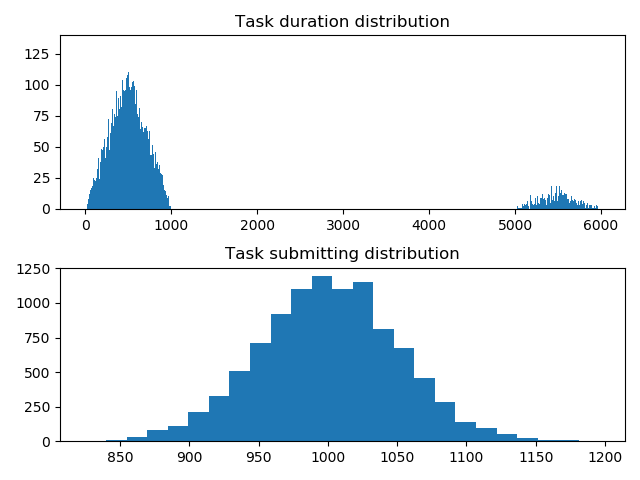
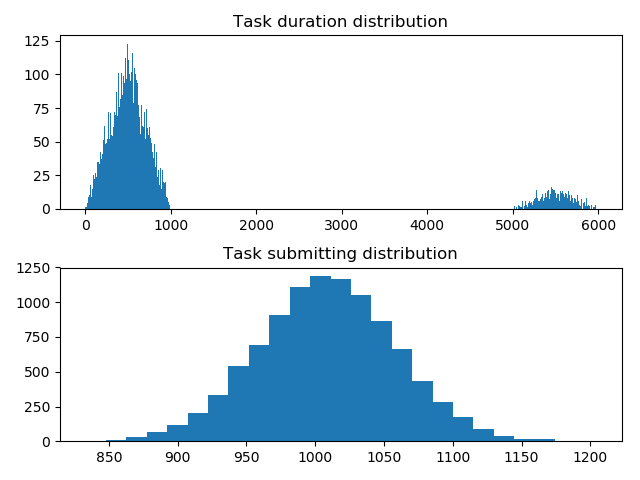
generator refactor and task ready time in float

diff --git a/generator.py b/generator.py
@@ -1,6 +1,5 @@
+from typing import Callable, Tuple
 import random
-from typing import Callable
-
 import numpy as np
 import matplotlib.pyplot as plt
 
@@ -9,44 +8,56 @@ from task import Task
 
 class Generator:
 
-    def __init__(self, N: int, low1: int, high1: int, low2: int, high2: int,
-                 p: float, length_function: Callable[['Task', int], int], std_function=np.sqrt, save_plots=False):
-        self.n = N
-        self.low1 = low1
-        self.high1 = high1
-        self.low2 = low2
-        self.high2 = high2
-        self.p = p
+    def __init__(self, n: int,
+                 min_max_resources: Tuple[int, int],
+                 # bimodal distribution of base length of task
+                 min_max_small: Tuple[int, int], min_max_big: Tuple[int, int], p_of_big: float,
+                 length_function: Callable[['Task', int], float],
+                 std_function=np.sqrt, save_plots=False):
+        self.n = n
+        self.min_max_resources = min_max_resources
+        self.min_max_small = min_max_small
+        self.min_max_big = min_max_big
+        self.p_of_big = p_of_big
         self.std_function = std_function
         self.length_function = length_function
         self.save_plots = save_plots
 
-    def _bimodal(self):
-        toss = np.random.choice((1, 2), p=(1-self.p, self.p))
-        if toss == 1:
-            return random.triangular(self.low1, self.high1)
-        else:
-            return random.triangular(self.low2, self.high2)
-
     def generate(self):
-        nums = [int(self._bimodal()) for _ in range(self.n)]
-        mean = np.mean(nums)
+        base_lengths = [int(self._bimodal()) for _ in range(self.n)]
+        mean = np.mean(base_lengths)
 
-        time = [int(np.round(np.random.normal(mean, self.std_function(mean)))) for _ in range(self.n)]
+        time_spaces = np.random.normal(mean, self.std_function(mean), self.n)
+        time = []
+        clock = 0
+        for space in time_spaces:
+            time.append(clock)
+            clock += space
 
         if self.save_plots:
-            plt.subplot(2, 1, 1)
-            plt.hist(nums, bins=max(10, self.n//10))
-            plt.title("Task duration distribution")
+            self._save_plot(base_lengths, time_spaces)
 
-            plt.subplot(2, 1, 2)
-            plt.hist(time, bins=min(25, max(10, self.n//25)))
-            plt.title("Task submitting distribution")
-            plt.tight_layout()
-            plt.savefig("img.png")
+        (min_resources, max_resources) = self.min_max_resources
+        return [Task(i, time[i], min_resources, max_resources,
+                     base_lengths[i], self.length_function) for i in range(self.n)]
 
-        return [Task(i, time[i], 0, 10, nums[i], self.length_function) for i in range(self.n)]
+    def _bimodal(self):
+        toss = np.random.choice((1, 2), p=(1 - self.p_of_big, self.p_of_big))
+        if toss == 1:
+            (low1, high1) = self.min_max_small
+            return random.triangular(low1, high1)
+        else:
+            (low2, high2) = self.min_max_big
+            return random.triangular(low2, high2)
 
+    def _save_plot(self, base_lengths, time_spaces):
+        plt.subplot(2, 1, 1)
+        plt.hist(base_lengths, bins=max(10, self.n // 10))
+        plt.title("Task duration distribution")
 
+        plt.subplot(2, 1, 2)
+        plt.hist(time_spaces, bins=min(25, max(10, self.n // 25)))
+        plt.title("Task submitting distribution")
 
-
+        plt.tight_layout()
+        plt.savefig("img.png")

diff --git a/task.py b/task.py
@@ -4,8 +4,8 @@ import math
 
 class Task:
 
-    def __init__(self, i: int, ready: int, min_resources: int, max_resources: int, base_lenght: int,
-                 length_function: Callable[['Task', int], int]):
+    def __init__(self, i: int, ready: float, min_resources: int, max_resources: int, base_lenght: int,
+                 length_function: Callable[['Task', int], float]):
         self.id = i
         self.ready = ready
         self.min_resources = min_resources
@@ -14,7 +14,12 @@ class Task:
         self.cost_function = length_function
 
     def __str__(self) -> str:
-        return f"Task({self.id}, {self.ready}, {self.min_resources}, {self.max_resources}, {self.base_length})"
+        return f"Task(id:{self.id}, ready:{self.ready}, base:{self.base_length}, min:{self.min_resources}, " \
+               f"max:{self.max_resources})"
 
-    def calc_length(self, procs) -> int:
-        return int(math.ceil(self.cost_function(self, procs)))
+    def calc_length(self, procs) -> float:
+        if procs < self.min_resources:
+            return math.inf
+        if procs > self.max_resources:
+            return self.cost_function(self, self.max_resources)
+        return self.cost_function(self, procs)

diff --git a/main.py b/main.py
@@ -2,9 +2,11 @@ from generator import Generator
 
 if __name__ == '__main__':
     print("Start")
-    generator = Generator(10000, 1, 1000, 5000, 6000, 0.1,
-                          lambda z, n: z.base_length / n, std_function=lambda x: x*0.05, save_plots=True)
+    generator = Generator(10000, (1, 10),
+                          (1, 1000), (5000, 6000), 0.1,
+                          lambda z, n: z.base_length / n, std_function=lambda x: x * 0.05, save_plots=True)
     tasks = generator.generate()
-    t = tasks[0]
-    print(t)
-    print(t.calc_length(3))
+
+    for t in tasks[:10]:
+        print(t)
+        print(t.calc_length(3))
